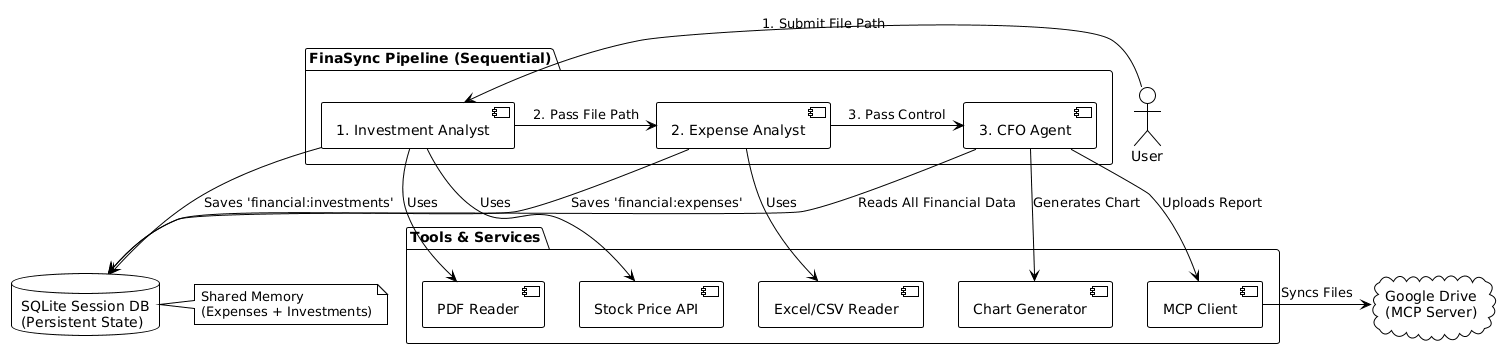
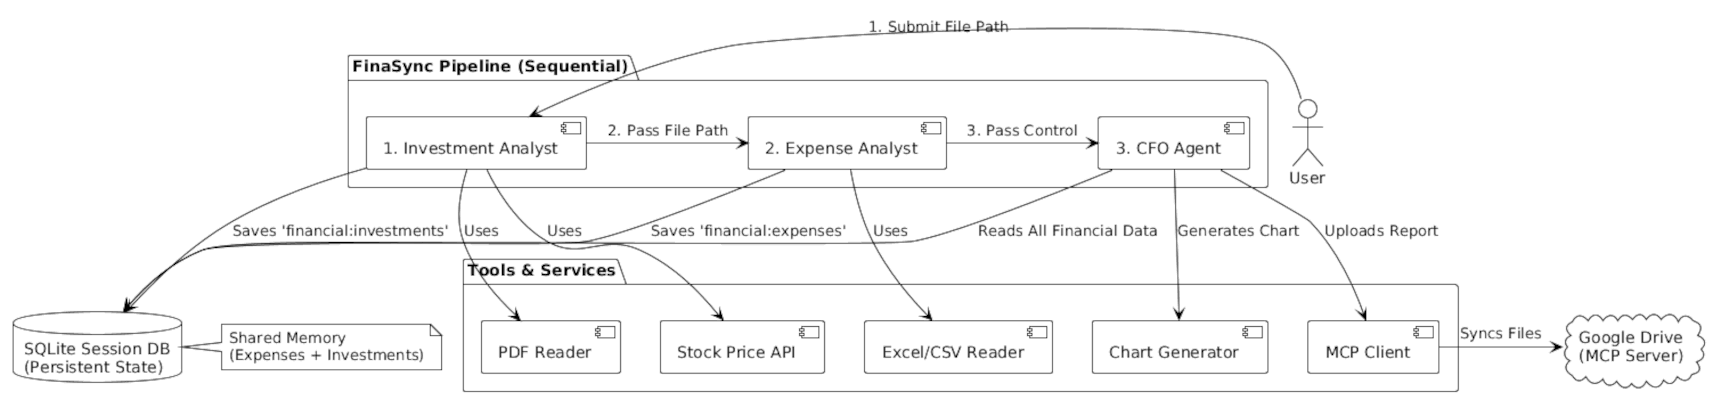
Add Design and architecture images

diff --git a/README.md b/README.md
@@ -1,8 +1,11 @@
 # FinaSync
-FinaSync: The Personal Wealth Concierge -- Financial Report Analysis ADK Project
+The Personal Wealth Concierge -- Financial Report Analysis ADK Project
 
+## Problem Scope
 Managing personal finances is fragmented and time-consuming. My financial data is siloed: expense logs exist in Excel, bank statements are in PDF, and stock portfolio performance is locked in monthly brokerage reports. Manually extracting this data to calculate a simple "Monthly Net Worth" or "Savings Rate" takes hours of data entry and is prone to human error.
+https://www.kaggle.com/competitions/agents-intensive-capstone-project/writeups/fina-sync-a-financial-advisor
 
+## Solution Scope
  FinaSync is an automated Concierge Agent pipeline. It listens to a specific Google Drive folder, automatically detects new financial documents (PDF/Excel), and deploys specialized sub-agents to extract data, categorize expenses, and analyze stock performance against historical benchmarks. It creates a unified "Monthly Snapshot" and saves the consolidated state, reducing hours of work to zero minutes.
 
  Instead of one massive agent trying to do everything, break it down into a coordinated team. This is more robust and easier to debug.
@@ -12,6 +15,9 @@ Managing personal finances is fragmented and time-consuming. My financial data i
 * 4. The CFO (Synthesis Agent): Receives structured data from the Expense and Investment agents. It calculates the final totals (Income - Expenses = Savings) and generates the report.
 
 This codebase is written in Python, uses Google AI Studio and Google Cloud
+/docs contain additional info
+/src contains the code
+./start.sh starts the agents
 
 
 # Setup
